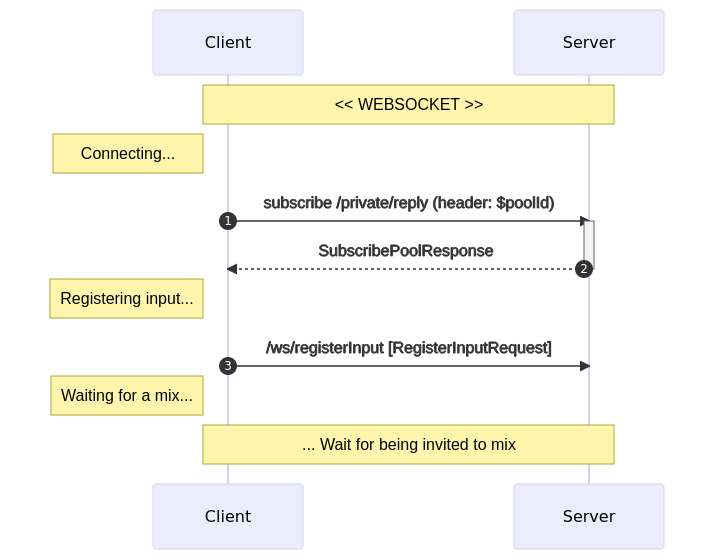
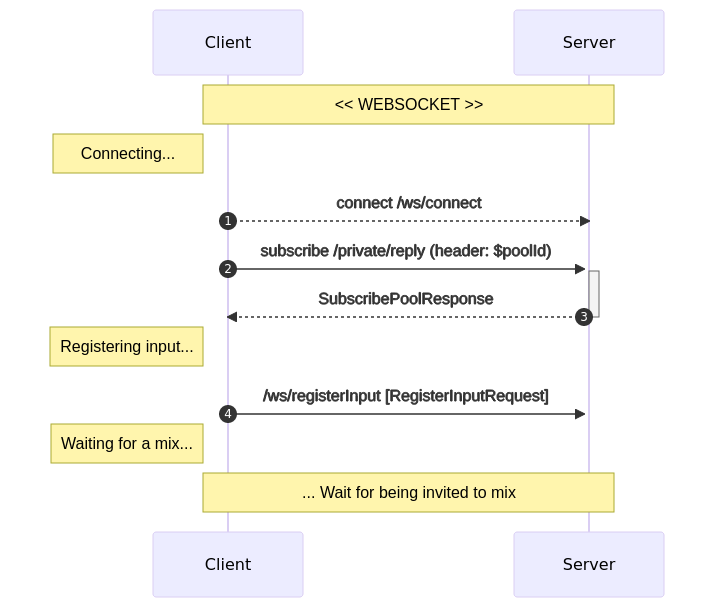
update cycle dialog

diff --git a/ARCHITECTURE.md b/ARCHITECTURE.md
@@ -21,7 +21,69 @@ Whirlpool is modular:
 ![](charts/architecture.png)
 
 
-## III. Cycle dialog
+## III. Pre-cycle
+#### 1. Get pools
+![](charts/pools.png)
+
+- Client submits `GET /rest/pools`
+- Client receives [`PoolsResponse`](https://code.samourai.io/whirlpool/whirlpool-protocol/-/blob/develop/src/main/java/com/samourai/whirlpool/protocol/rest/PoolsResponse.java):
+    - `pools[]`: array of [`PoolInfo`](https://code.samourai.io/whirlpool/whirlpool-protocol/-/blob/develop/src/main/java/com/samourai/whirlpool/protocol/rest/PoolInfo.java)
+        - poolId: pool identifier
+        - denomination: POSTMIX value
+        - feeValue: Whirlpool fee
+        - mustMixBalanceMin: PREMIX min value
+        - mustMixBalanceCap: PREMIX max value
+        - mustMixBalanceMax: deprecated
+        - minAnonymitySet: pool anonymity set
+        - minMustMix: min count of non-freeriders per mix
+        - tx0MaxOutputs: max count of POSTMIX per Tx0
+        - nbRegistered: currently registered users (including freeriders)
+        - mixAnonymitySet: deprecated
+        - mixStatus: current mix status
+        - elapsedTime: current mix duration
+        - nbConfirmed: currently confirmed users for next mix
+
+
+#### 2. Create Tx0
+![](charts/tx0.png)
+
+- Client submits [`Tx0DataRequestV2`](https://code.samourai.io/whirlpool/whirlpool-protocol/-/blob/develop/src/main/java/com/samourai/whirlpool/protocol/rest/Tx0DataRequestV2.java):
+    - `scode`: discount code (optional)
+    - `partnerId`: partner identifier (`SAMOURAI`, `SPARROW`...)
+- Client receives [`Tx0DataResponseV2`](https://code.samourai.io/whirlpool/whirlpool-protocol/-/blob/develop/src/main/java/com/samourai/whirlpool/protocol/rest/Tx0DataResponseV2.java):
+    - `tx0Datas[]`: array of [`Tx0DataResponseV2.Tx0Data`](https://code.samourai.io/whirlpool/whirlpool-protocol/-/blob/develop/src/main/java/com/samourai/whirlpool/protocol/rest/Tx0DataResponseV2.java#L13)
+        - `poolId`: pool identifier
+        - `feePaymentCode`: payment code for `feePayload64` obfuscation
+        - `feeValue`: Whirlpool fee
+        - `feeChange`: fake fee value when `feeValue=0`
+        - `feeDiscountPercent`: %discount applied
+        - `message`: scode info
+        - `feePayload64`: payload for OP_RETURN
+        - `feeAddress`: fee destination
+- Client creates the TX0
+    - [1-N] deposit inputs
+    - [1-N] PREMIX outputs (max count `PoolInfo.tx0MaxOutputs`) of the same value (`PoolInfo.mustMixBalanceMin <= value <= PoolInfo.mustMixBalanceCap`)
+    - 1 Whirlpool fee output of `feeValue` to `feeAddress`, when `feeValue>0`
+    - 1 fake Whirlpool fee output of `feeChange` to DEPOSIT, when `feeValue=0`
+    - 1 OP_RETURN with `xorMask(feePayload64, input[0].key, feePaymentCode)`
+    - eventual change output to DEPOSIT
+- Client broadcasts the TX0
+
+#### 3. CheckOutput
+
+As stated in Cycle dialog, client should **NEVER** submit a `receiveAddress` already known by coordinator.  This means that client should keep a local POSTMIX index to increment on REGISTER_OUTPUT, and never be roll it back even in case of a mix failure.   
+Reusing an already known `receiveAddress` will get the client blamed, then banned.  
+
+To make sure a `receiveAddress` is unknown to the server, we suggest using the CheckOutput service at client startup.  
+We also suggest to use it in case of REGISTER_OUTPUT failure.
+
+![](charts/checkOutput.png)
+
+- Client submits `POST /rest/checkOutput`
+- Client receives HTTP 200 if output is unknown
+
+
+## IV. Cycle dialog
 Dialog is:
 - over STOMP websocket
 - described in `whirlpool-protocol`
@@ -33,6 +95,8 @@ This is the standard mix process.
 
 #### 1. CONNECT & REGISTER_INPUT
 ![](charts/dialog1_registerInput.png)
+
+- Client connects to /ws/connect
 - Client submits [`RegisterInputRequest`](https://code.samourai.io/whirlpool/whirlpool-protocol/-/blob/develop/src/main/java/com/samourai/whirlpool/protocol/websocket/messages/RegisterInputRequest.java):
     - `poolId`: obtained from /rest/pools
     - `utxoHash` + `utxoIndex`: a PREMIX or POSTMIX utxo
@@ -104,13 +168,3 @@ Each client should reveal its registered output to coordinator, which will find 
 #### 2. Mix failure
 ![](charts/dialog6_fail.png)
 - Client receives [`FailMixStatusNotification`](https://code.samourai.io/whirlpool/whirlpool-protocol/-/blob/develop/src/main/java/com/samourai/whirlpool/protocol/websocket/notifications/FailMixStatusNotification.java)
-
-
-#### 3. CheckOutput
-![](charts/dialog7_checkOutput.png)
-
-As stated before, client should **NEVER** submit a `receiveAddress` already known by coordinator.  This means that client should keep a local POSTMIX index to increment on REGISTER_OUTPUT, and never be roll it back even in case of a mix failure.   
-Reusing an already known `receiveAddress` will get the client blamed, then banned.  
-
-To make sure a `receiveAddress` is unknown to the server, we suggest using the CheckOutput service at client startup.  
-We also suggest to use it if your client fails to REGISTER_OUTPUT.

diff --git a/charts/dialog1_registerInput.md b/charts/dialog1_registerInput.md
@@ -3,6 +3,7 @@ sequenceDiagram
     Note over Client,Server: << WEBSOCKET >>
 
     Note left of Client: Connecting...
+    Client-->>+Server: connect /ws/connect
     Client->>+Server: subscribe /private/reply (header: $poolId)
     Server -->>-Client: SubscribePoolResponse
 

diff --git a/charts/tx0.md b/charts/tx0.md
@@ -1,0 +1,7 @@
+sequenceDiagram
+    autonumber
+
+    Note over Client,Server: << REST >>
+    Client->>+Server: POST /rest/tx0 [Tx0DataRequestV2]
+    Server-->>-Client: Tx0DataResponseV2
+    Client-->>+Wallet backend: BROADCAST tx0

diff --git a/charts/pools.md b/charts/pools.md
@@ -1,0 +1,7 @@
+sequenceDiagram
+    autonumber
+
+    Note over Client,Server: << REST >>
+    Client->>+Server: GET /rest/pools
+
+    Server-->>-Client: PoolsResponse
